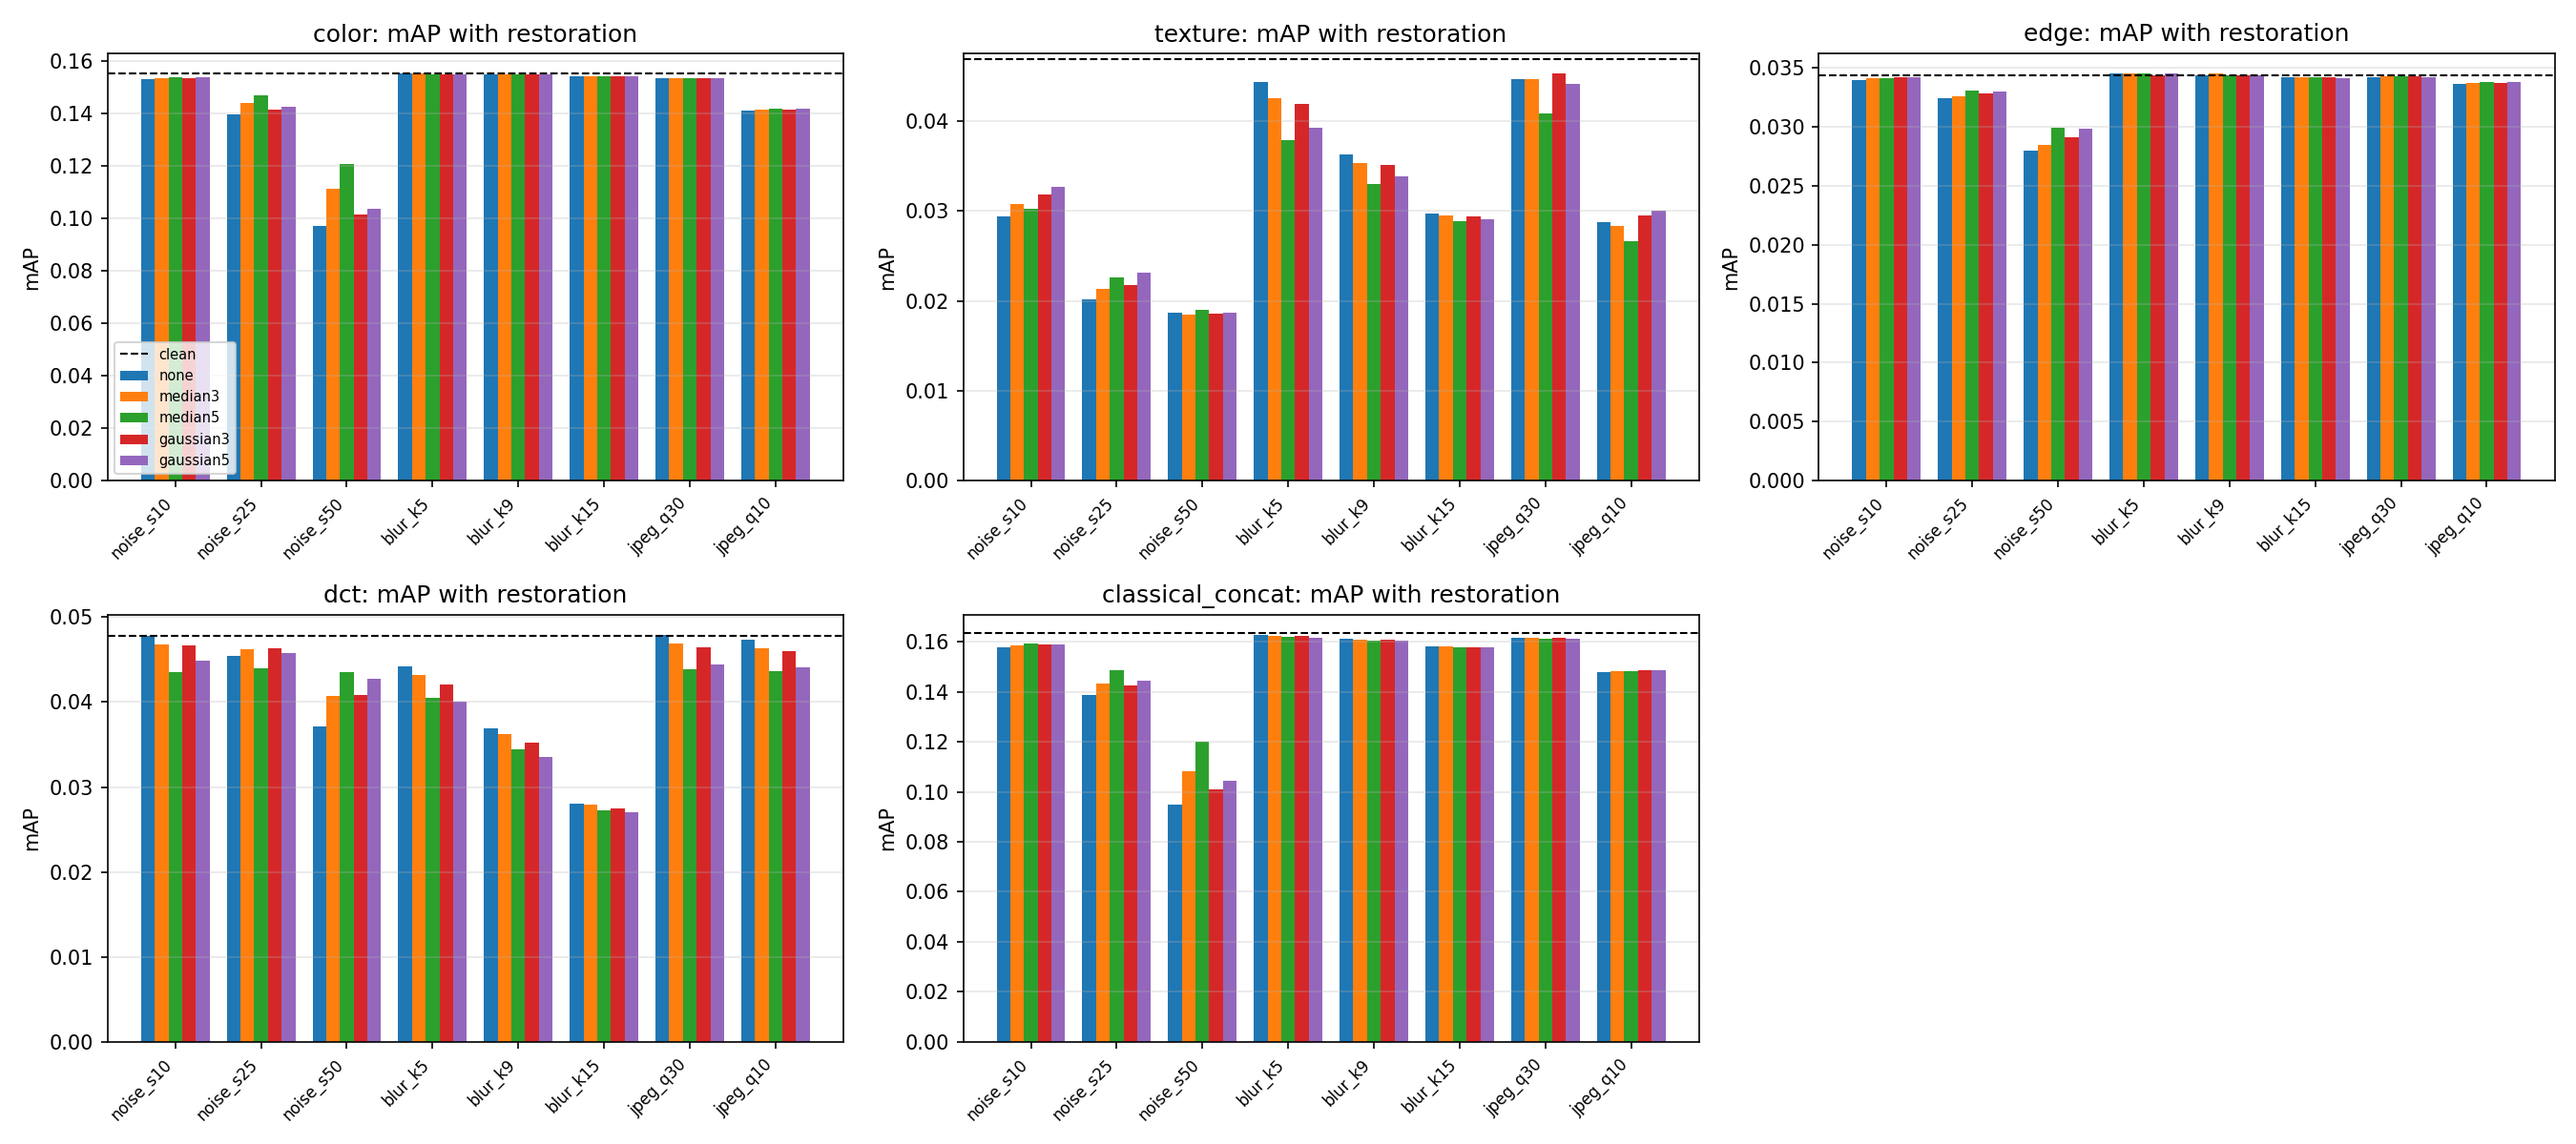
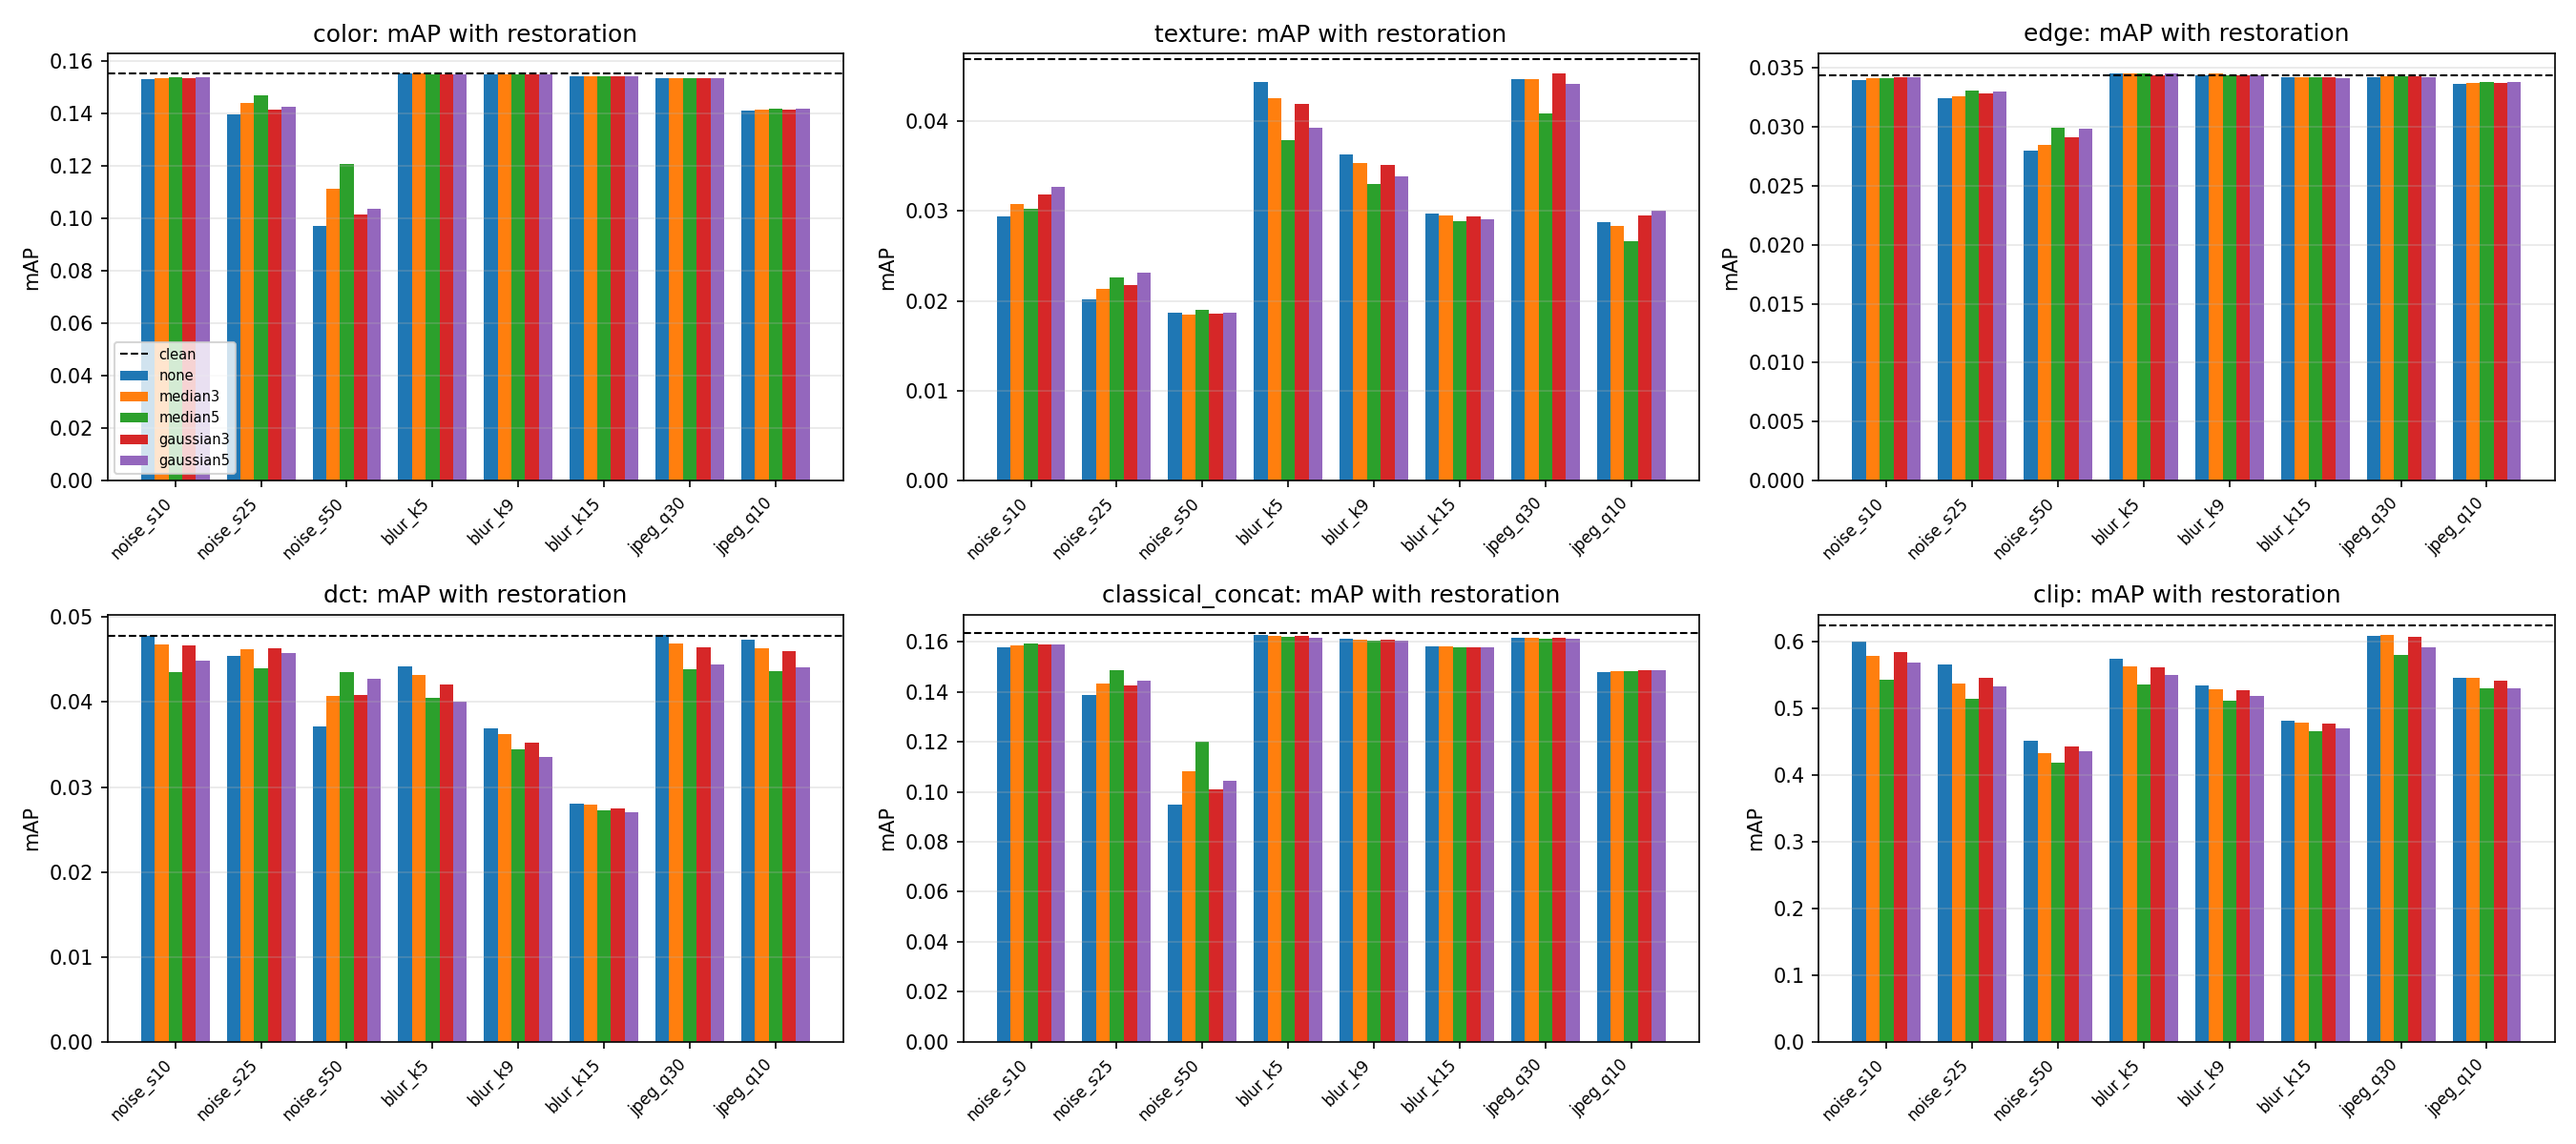
exp: add CLIP to robustness and restoration experiments

Changed region(s): [[0.7156, 0.4933, 0.9956, 0.925]]

diff --git a/scripts/run_experiments.py b/scripts/run_experiments.py
@@ -21,6 +21,7 @@ from pathlib import Path
 import matplotlib
 matplotlib.use("Agg")
 import matplotlib.pyplot as plt  # noqa: E402
+import cv2  # noqa: E402
 import numpy as np  # noqa: E402
 import pandas as pd  # noqa: E402
 from tqdm import tqdm  # noqa: E402
@@ -47,6 +48,8 @@ CONDITIONS = (
     + [("jpeg", q) for q in JPEG_QUALITIES]
 )
 _LEVEL_TAG = {"noise": "s", "blur": "k", "jpeg": "q"}
+ORDER = ["color", "texture", "edge", "dct", "classical_concat", "clip"]
+CLIP_FILE = "clip_image.npy"   # Person B: gallery CLIP embeddings, same row order as labels.npy
 
 
 def cond_name(kind: str, level: int) -> str:
@@ -74,7 +77,15 @@ def classical_encoder(images: list[np.ndarray]) -> dict[str, np.ndarray]:
     return out
 
 
-def load_gallery() -> tuple[dict[str, np.ndarray], np.ndarray, np.ndarray]:
+def clip_query_encoder(images: list[np.ndarray]) -> dict[str, np.ndarray]:
+    """BGR images -> {'clip': (Q, 512)} with Person B's encoder (converted to RGB here)."""
+    from src.features import clip_encoder  # lazy: torch / open_clip load only when used
+
+    rgb = [cv2.cvtColor(im, cv2.COLOR_BGR2RGB) for im in images]
+    return {"clip": clip_encoder.encode_images(rgb)}
+
+
+def load_gallery(with_clip: bool = True) -> tuple[dict[str, np.ndarray], np.ndarray, np.ndarray]:
     need = [bc.INDEX_DIR / f"classical_{n}.npy" for n in FEATURE_NAMES]
     need += [bc.INDEX_DIR / "labels.npy", bc.INDEX_DIR / "query_ids.npy"]
     missing = [p.name for p in need if not p.exists()]
@@ -83,7 +94,19 @@ def load_gallery() -> tuple[dict[str, np.ndarray], np.ndarray, np.ndarray]:
                          "Run scripts\\baseline_classical.py first.")
     feats = {n: np.load(bc.INDEX_DIR / f"classical_{n}.npy") for n in FEATURE_NAMES}
     feats["classical_concat"] = _row_l2(np.hstack([feats[n] for n in FEATURE_NAMES]))
-    return feats, np.load(bc.INDEX_DIR / "labels.npy"), np.load(bc.INDEX_DIR / "query_ids.npy")
+    labels = np.load(bc.INDEX_DIR / "labels.npy")
+    query_ids = np.load(bc.INDEX_DIR / "query_ids.npy")
+    if with_clip:
+        cp = bc.INDEX_DIR / CLIP_FILE
+        if cp.exists():
+            clip = np.load(cp)
+            if clip.ndim != 2 or clip.shape[0] != len(labels):
+                raise SystemExit(f"{cp.name} has shape {clip.shape}, expected "
+                                 f"({len(labels)}, D) in the same order as labels.npy.")
+            feats["clip"] = _row_l2(clip)
+        else:
+            print(f"NOTE: {cp} not found -> running the classical retrievers only.")
+    return feats, labels, query_ids
 
 
 def score(qvecs: dict[str, np.ndarray], gallery: dict[str, np.ndarray],
@@ -197,14 +220,34 @@ def plot_restoration(res: pd.DataFrame, rob: pd.DataFrame, path: Path) -> None:
     plt.close(fig)
 
 
+def check_against_baseline(rob: pd.DataFrame) -> None:
+    """The clean rows must reproduce the baseline CSVs (same queries, same protocol)."""
+    clean = rob[rob["condition"] == "clean"].set_index("retriever")
+    for fname in ("baseline_classical.csv", "baseline_clip.csv"):
+        p = bc.RESULTS_DIR / fname
+        if not p.exists():
+            continue
+        base = pd.read_csv(p).set_index("retriever")
+        for name in base.index:
+            if name not in clean.index:
+                continue
+            got, ref = float(clean.loc[name, "mAP"]), float(base.loc[name, "mAP"])
+            status = "OK" if abs(got - ref) < 5e-4 else "MISMATCH"
+            print(f"  clean check  {name:18s} mAP {got:.4f} vs baseline {ref:.4f}  {status}")
+
+
 def main(argv: list[str] | None = None) -> None:
     ap = argparse.ArgumentParser(description=__doc__,
                                  formatter_class=argparse.RawDescriptionHelpFormatter)
     ap.add_argument("--limit", type=int, default=None,
                     help="use only the first N saved queries (quick test)")
+    ap.add_argument("--no-clip", action="store_true",
+                    help="skip the CLIP retriever (classical only)")
     args = ap.parse_args(argv)
 
-    gallery, labels, query_ids = load_gallery()
+    gallery, labels, query_ids = load_gallery(with_clip=not args.no_clip)
+    encoders = (classical_encoder,) + ((clip_query_encoder,) if "clip" in gallery else ())
+    print("Retrievers:", ", ".join(gallery))
     if args.limit:
         query_ids = query_ids[:args.limit]
 
@@ -212,7 +255,7 @@ def main(argv: list[str] | None = None) -> None:
     print(f"Loading {len(query_ids)} query images...")
     images = [ds.get(int(g))[0] for g in tqdm(query_ids, desc="Loading")]
 
-    rob, res = run_experiments(images, gallery, labels, query_ids)
+    rob, res = run_experiments(images, gallery, labels, query_ids, encoders=encoders)
 
     out = bc.RESULTS_DIR
     out.mkdir(parents=True, exist_ok=True)
@@ -221,15 +264,22 @@ def main(argv: list[str] | None = None) -> None:
     plot_robustness(rob, out / "robustness.png")
     plot_restoration(res, rob, out / "restoration.png")
 
+    if not args.limit:
+        print("\nClean rows vs baseline CSVs:")
+        check_against_baseline(rob)
+
     print("\nmAP by condition (rows) and retriever (columns):")
-    print(rob.pivot(index="condition", columns="retriever", values="mAP")
-          .reindex(["clean"] + [cond_name(k, l) for k, l in CONDITIONS]).to_string())
+    piv = rob.pivot(index="condition", columns="retriever", values="mAP")
+    piv = piv.reindex(["clean"] + [cond_name(k, l) for k, l in CONDITIONS])
+    print(piv[[c for c in ORDER if c in piv.columns]].to_string())
     best = (res.sort_values("mAP_gain", ascending=False)
             .groupby(["condition", "retriever"]).head(1))
-    print("\nBest restoration per condition for classical_concat:")
-    print(best[best["retriever"] == "classical_concat"]
-          [["condition", "restoration", "mAP_degraded", "mAP", "recovery_pct"]]
-          .to_string(index=False))
+    for r in ("classical_concat", "clip"):
+        if r in set(best["retriever"]):
+            print(f"\nBest restoration per condition for {r}:")
+            print(best[best["retriever"] == r]
+                  [["condition", "restoration", "mAP_degraded", "mAP", "recovery_pct"]]
+                  .to_string(index=False))
     print(f"\nSaved to {out}: robustness.csv/.png, restoration.csv/.png")
 
 
